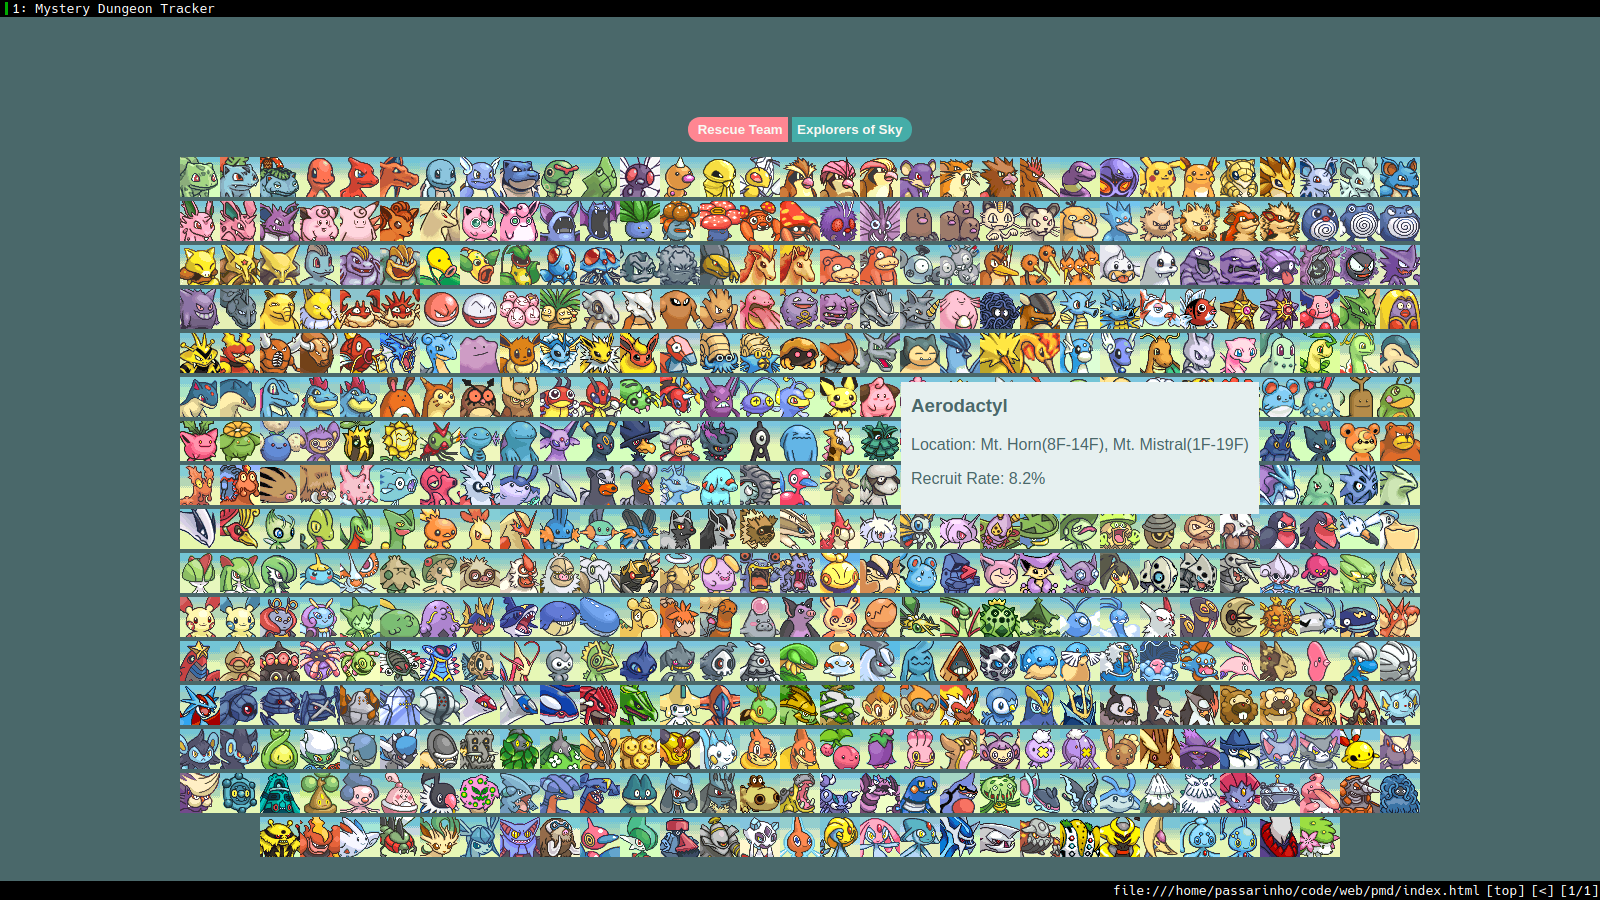
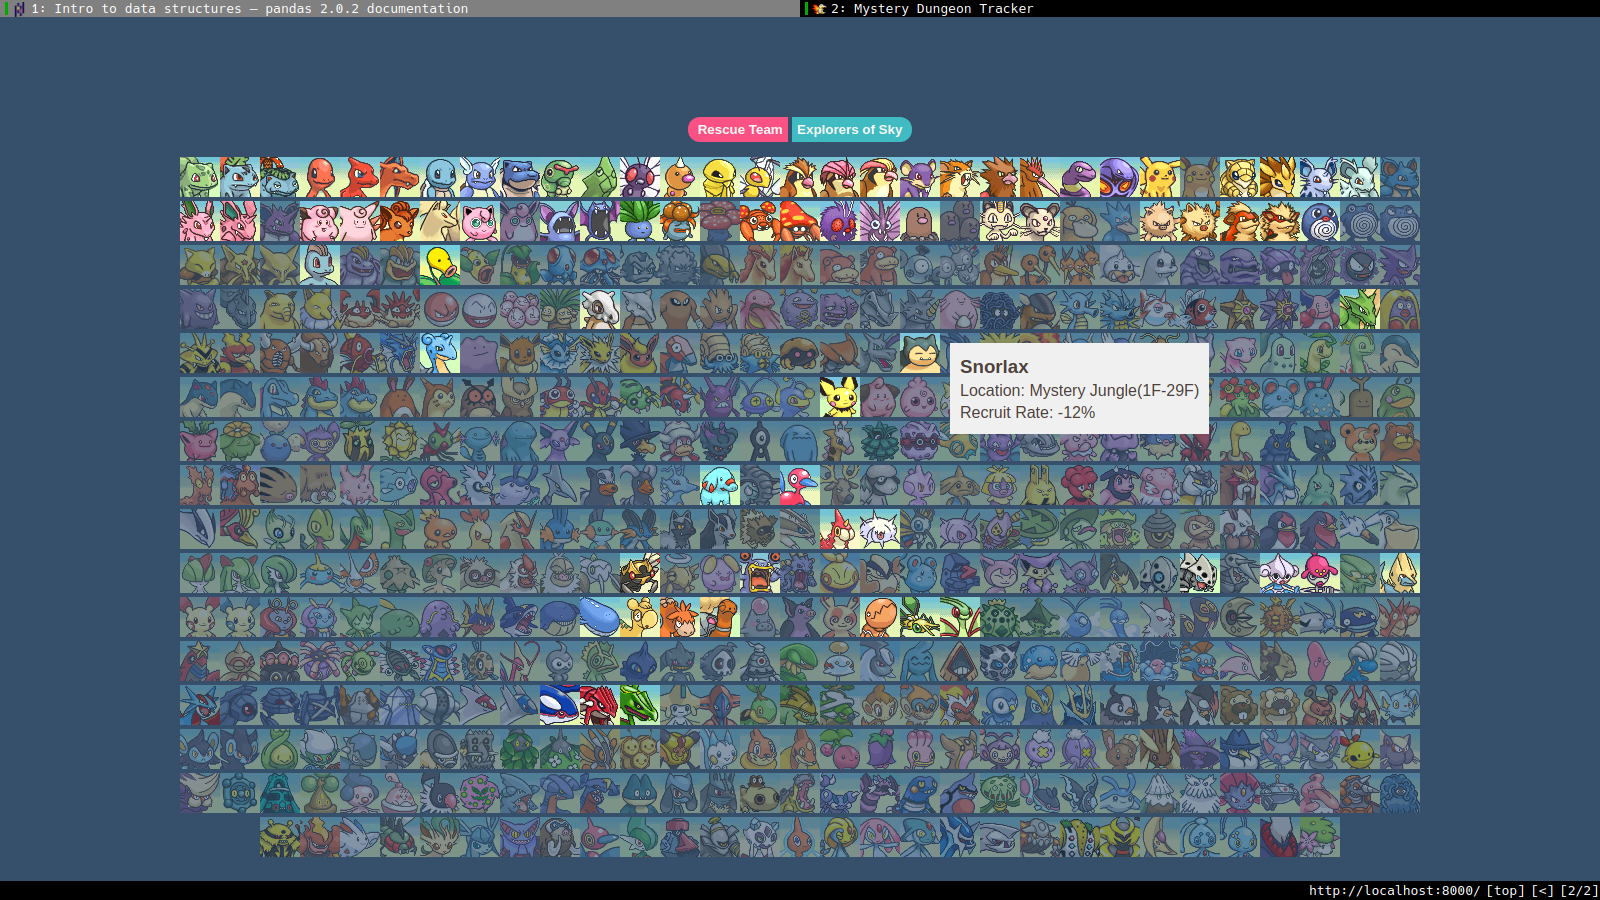
updated screenshot and readme

diff --git a/README.md b/README.md
@@ -5,11 +5,10 @@ The pokemon dataset I used for this is available here: https://github.com/pa5sar
 ### What has been done
 + All the pokemon portraits are displayed for Red/Blue Rescue Team and Explorers of Sky
 + A mouseover event to show the pokemon locationsand recruit rates (and friend areas for rescue team)
++ onclick event to mark as recruited
 
 ### Still needs to be done
-+ onclick event to mark as recruited
-+ Filtering for the Pokemon that hasn't been recruited yet
 + Recruitment tracking in a database
-+ Login feature
++ Login feature?
 
 ![screenshot](screenshot.png)
